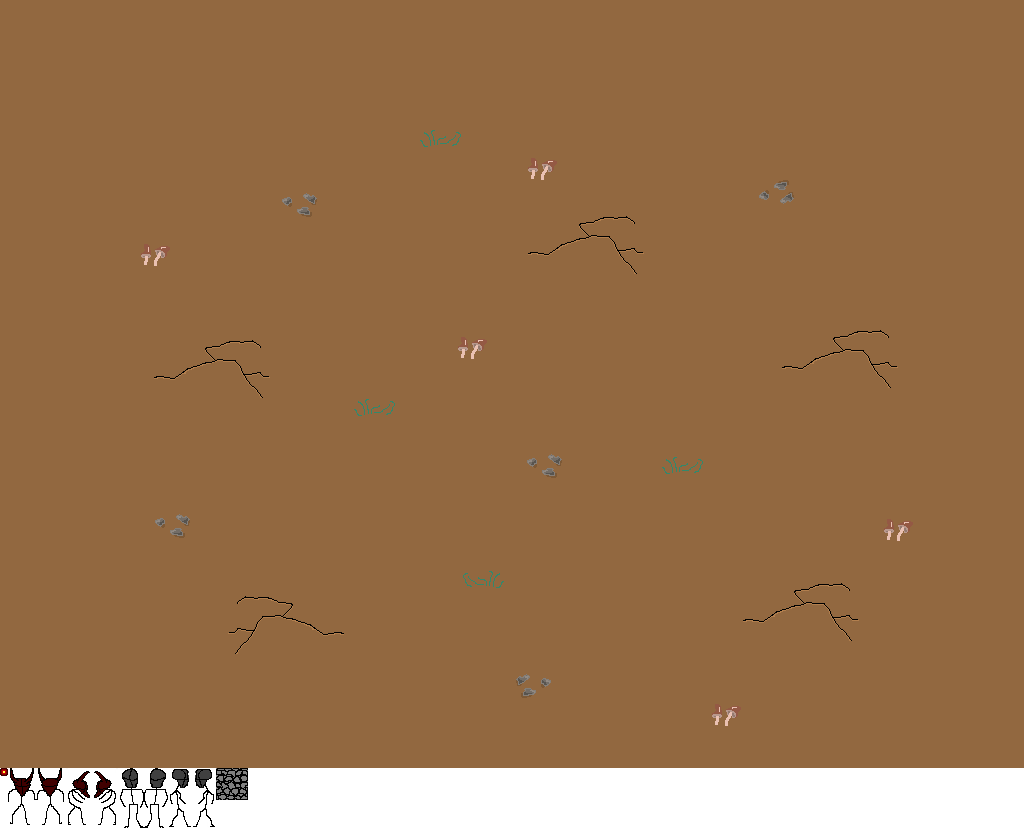
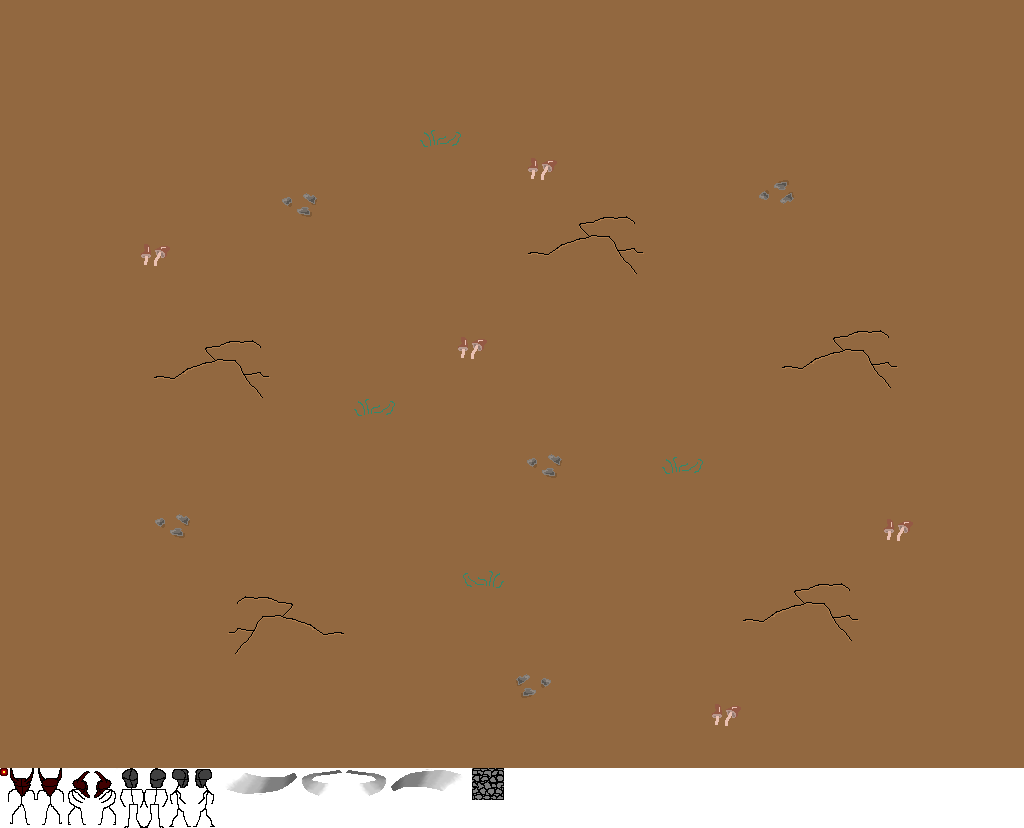
Draft of time controlling mechanism

Changed region(s): [[0.3438, 0.9058, 0.5, 0.9662], [0.1875, 0.9058, 0.3125, 0.9662]]

diff --git a/NecropolisGame/States/gameState.ts b/NecropolisGame/States/gameState.ts
@@ -2,11 +2,21 @@
     export class gameState extends Phaser.State {
         bg: Phaser.Sprite;
         player: Phaser.Sprite;
+        monster: Phaser.Sprite;
         map: Phaser.Tilemap;
         walls: Phaser.TilemapLayer;
+        timeController: Necropolis.TimeController;
+        SPACE: Phaser.Key;
+        helper: Necropolis.Helper;
+        bullets: Necropolis.Bullets;
 
         create() {
+            this.SPACE = this.game.input.keyboard.addKey(Phaser.Keyboard.SPACEBAR);
+            this.SPACE.onDown.add(this.changeTime, this)
+
             this.game.physics.startSystem(Phaser.Physics.ARCADE);
+            this.timeController = new TimeController();
+            this.helper = new Helper();
             this.bg = this.game.add.sprite(0, 0, 'gameSheet', 'bg_main.png');
 
             this.map = this.game.add.tilemap('tileMap')
@@ -16,12 +26,27 @@
             this.walls.resizeWorld();
 
             this.player = new Player(this.game, 40, 40);
-            this.game.physics.enable(this.player);
             this.game.add.existing(this.player);
+
+            this.bullets = new Bullets(this.game, this.timeController);
+
+            this.monster = new Monster(this.game, 240, 240, this.timeController, this.bullets);
+            this.game.add.existing(this.monster);
         }
 
         update() {
             this.game.physics.arcade.collide(this.player, this.walls);
+            this.game.physics.arcade.collide(this.monster, this.walls, this.helper.handleWallCollision, null, this);
+        }
+
+        changeTime() {
+            if (!this.timeController.timeSlowed) {
+                this.timeController.slowTime();
+                console.log("slowing time");
+            } else {
+                this.timeController.speedUpTime();
+                console.log("speeding up time");
+            }
         }
     }
 };

diff --git a/NecropolisGame/GameObjects/monster.ts b/NecropolisGame/GameObjects/monster.ts
@@ -1,0 +1,46 @@
+module Necropolis {
+    export class Monster extends Phaser.Sprite {
+
+        speed: number;
+        timeCtlr: TimeController;
+        bullets: Necropolis.Bullets;
+
+        constructor(game: Phaser.Game, x: number, y: number, timeCtlr: TimeController, bullets: Necropolis.Bullets) {
+            super(game, x, y, 'gameSheet', 'spr_demon_0.png');
+            this.speed = 15;
+            this.game.physics.enable(this);
+            this.body.velocity.x = this.speed * this.game.rnd.sign();
+            this.timeCtlr = timeCtlr;
+            this.bullets = bullets;
+            this.game.time.events.add(2000,this.shoot,this);
+        }
+
+        update() {
+            this.body.velocity.x = this.speed * this.timeCtlr.timeModifier;
+            if (this.body.velocity.x > 0) {
+                this.loadTexture('gameSheet', 'spr_demon_2.png')
+            } else {
+                this.loadTexture('gameSheet', 'spr_demon_3.png')
+            }
+        }
+
+        turnAround() {
+            console.log("test");
+            if (this.body.velocity.x > 0) {
+                this.speed *= -1;
+                this.loadTexture('gameSheet', 'spr_demon_2.png')
+            } else {
+                this.speed *= -1;
+                this.loadTexture('gameSheet', 'spr_demon_3.png')
+            }
+        }
+
+        shoot() {
+            //if (!this.game.rnd.integerInRange(0, 5)) {
+                this.bullets.spawn(this.x, this.y, this.body.velocity.x > 0);
+            //}
+            this.game.time.events.add(2000, this.shoot, this);
+        }
+    }
+
+}

diff --git a/NecropolisGame/index.html b/NecropolisGame/index.html
@@ -5,13 +5,17 @@
     <meta charset="utf-8" />
     <title>http://jsdn.pl/ - JavaScript Noob - Necropolis</title>
     <link rel="stylesheet" href="app.css" type="text/css" />
-    <script type="text/javascript" src="http://greeboro.linuxpl.eu/apps/Phaser/phaser.min.js"></script>
-    <script src="app.js"></script>
-    <script src="/GameObjects/player.js"></script>
-    <script src="/States/welcomeState.js"></script>
-    <script src="/States/gameState.js"></script>
 </head>
 <body>
     <div id="game"></div>
+    <script type="text/javascript" src="http://greeboro.linuxpl.eu/apps/Phaser/phaser.min.js"></script>
+    <script src="app.js"></script>
+    <script src="helpers.js"></script>
+    <script src="GameObjects/bullets.js"></script>
+    <script src="GameObjects/player.js"></script>
+    <script src="GameObjects/monster.js"></script>
+    <script src="GameObjects/timeControler.js"></script>
+    <script src="States/welcomeState.js"></script>
+    <script src="States/gameState.js"></script>
 </body>
 </html>

diff --git a/NecropolisGame/app.ts b/NecropolisGame/app.ts
@@ -5,9 +5,9 @@
             this.game = new Phaser.Game(1024, 768, Phaser.AUTO, 'game', { create: this.create, preload: this.preload})
         }
         preload() {
-            this.game.load.atlasJSONHash('gameSheet', '/Assets/necropolis.png', '/Assets/necropolis.json');
-            this.game.load.image("tiles", "/Assets/spr_wall_0.png");
-            this.game.load.tilemap("tileMap", "/Assets/tiles.json", null, Phaser.Tilemap.TILED_JSON);
+            this.game.load.atlasJSONHash('gameSheet', 'Assets/necropolis.png', 'Assets/necropolis.json');
+            this.game.load.image("tiles", "Assets/spr_wall_0.png");
+            this.game.load.tilemap("tileMap", "Assets/tiles.json", null, Phaser.Tilemap.TILED_JSON);
         }
         create() {
             this.game.state.add('welcomeState', Necropolis.welcomeState, true);

diff --git a/NecropolisGame/GameObjects/timeControler.ts b/NecropolisGame/GameObjects/timeControler.ts
@@ -1,0 +1,24 @@
+module Necropolis {
+    export class TimeController {
+
+        public timeModifier: number;
+        public timeSlowed: boolean;
+
+        constructor() {
+            this.timeModifier = 5;
+            this.timeSlowed = false;
+        }
+
+        slowTime() {
+            this.timeModifier = 1;
+            this.timeSlowed = true;
+        }
+
+        speedUpTime() {
+            this.timeModifier = 5;
+            this.timeSlowed = false;
+        }
+        
+    }
+
+}

diff --git a/NecropolisGame/GameObjects/bullets.ts b/NecropolisGame/GameObjects/bullets.ts
@@ -1,0 +1,17 @@
+module Necropolis {
+    export class Bullets extends Phaser.Group {
+        timeCtrl: TimeController;
+        speed: number;
+
+        constructor(game: Phaser.Game,timeCtrl:TimeController) {
+            super(game);
+            this.createMultiple(15, 'spr_bullet_0.png');
+            this.timeCtrl = timeCtrl;
+        }
+
+        spawn(x:number, y:number, direction:boolean) {
+            console.log("bam!")
+        }
+
+    }
+}

diff --git a/NecropolisGame/GameObjects/player.ts b/NecropolisGame/GameObjects/player.ts
@@ -8,7 +8,7 @@
 
         constructor(game: Phaser.Game, x: number, y: number) {
             super(game, x, y, 'gameSheet', 'spr_Player_0.png')
-
+            this.game.physics.enable(this);
             this.RIGHT = this.game.input.keyboard.addKey(Phaser.Keyboard.RIGHT);
             this.RIGHT.onDown.add(this.movePlayer, this, 0, 'right');
             this.RIGHT.onUp.add(function () {

diff --git a/NecropolisGame/helpers.ts b/NecropolisGame/helpers.ts
@@ -1,0 +1,9 @@
+module Necropolis {
+    export class Helper {
+        constructor() {}
+        handleWallCollision(monster:Monster) {
+            monster.turnAround();
+        }
+    }
+
+}
